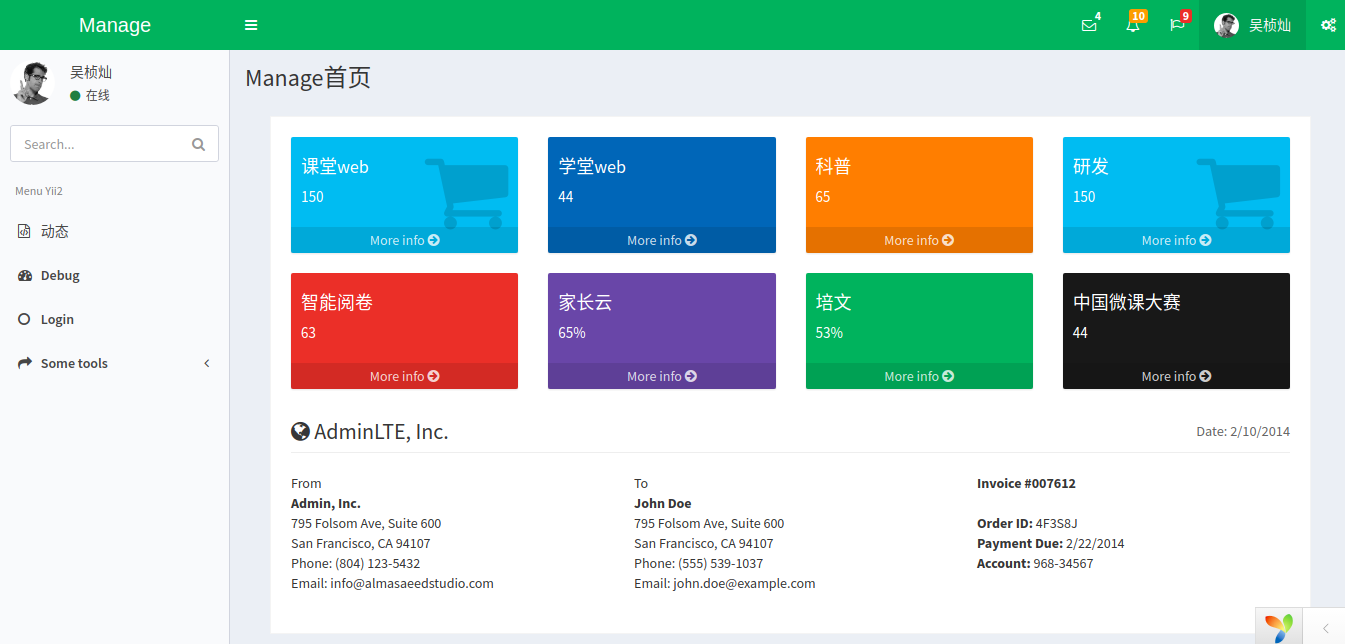
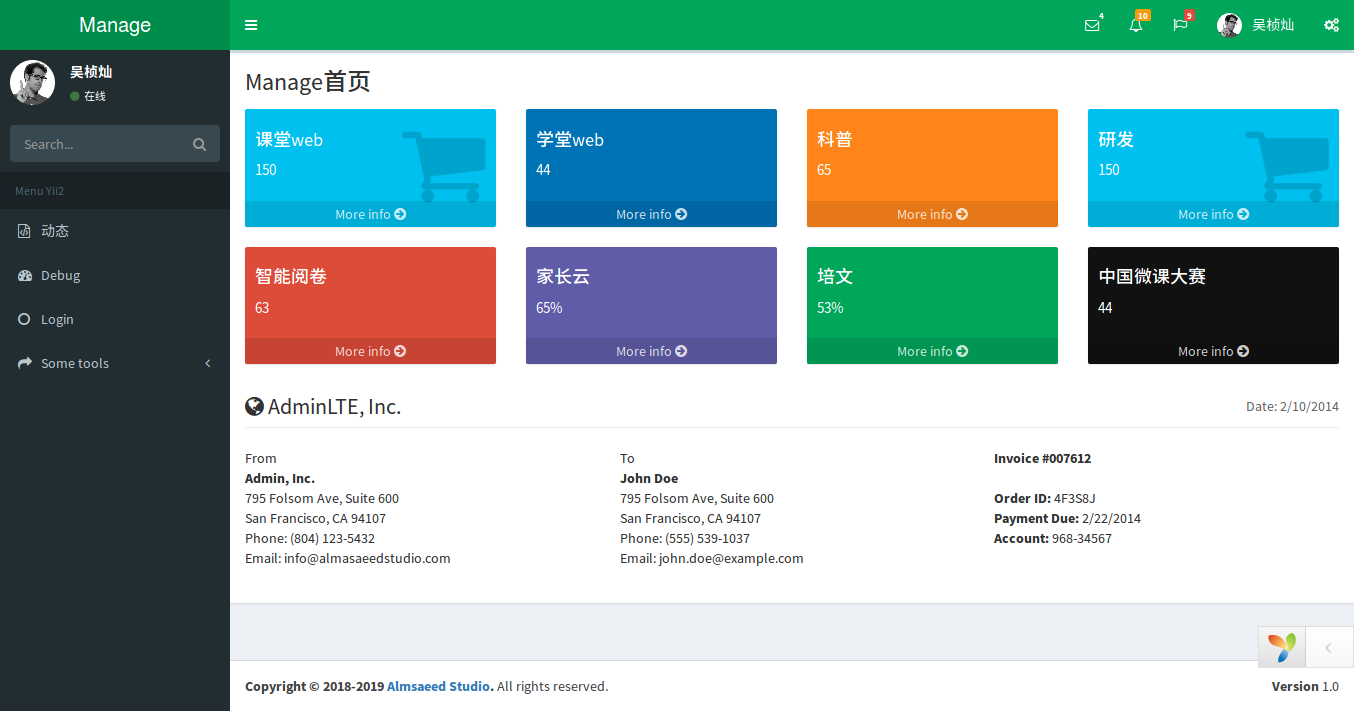
效果图

diff --git a/frontend/views/layouts/main-member.php b/frontend/views/layouts/main-member.php
@@ -39,6 +39,85 @@ if (Yii::$app->controller->action->id === 'login') {
     </head>
     <body class="hold-transition <?= \dmstr\helpers\AdminLteHelper::skinClass() ?>  sidebar-mini">
     <?php $this->beginBody() ?>
+
+    <div class="modal fade bs-example-modal-lg" tabindex="-1" role="dialog" aria-labelledby="myLargeModalLabel">
+        <div class="modal-dialog" role="document">
+
+                <div class="modal-body">
+                    <!-- Construct the box with style you want. Here we are using box-success -->
+                    <!-- Then add the class direct-chat and choose the direct-chat-* contexual class -->
+                    <!-- The contextual class should match the box, so we are using direct-chat-success -->
+                    <div class="box box-success direct-chat direct-chat-success">
+                        <div class="box-header with-border">
+                            <h3 class="box-title">Direct Chat</h3>
+                            <div class="box-tools pull-right">
+                                <span data-toggle="tooltip" title="3 New Messages" class="badge bg-red">3</span>
+                                <button class="btn btn-box-tool" data-widget="collapse"><i class="fa fa-minus"></i></button>
+                                <!-- In box-tools add this button if you intend to use the contacts pane -->
+                                <button class="btn btn-box-tool" data-toggle="tooltip" title="Contacts" data-widget="chat-pane-toggle"><i class="fa fa-comments"></i></button>
+                                <button class="btn btn-box-tool" data-widget="remove"><i class="fa fa-times"></i></button>
+                            </div>
+                        </div><!-- /.box-header -->
+                        <div class="box-body">
+                            <!-- Conversations are loaded here -->
+                            <div class="direct-chat-messages">
+                                <!-- Message. Default to the left -->
+                                <div class="direct-chat-msg">
+                                    <div class="direct-chat-info clearfix">
+                                        <span class="direct-chat-name pull-left">张晓龙</span>
+                                        <span class="direct-chat-timestamp pull-right">2018-01-11 11:59</span>
+                                    </div><!-- /.direct-chat-info -->
+                                    <img class="direct-chat-img" src="<?=$directoryAsset?>/img/user1-128x128.jpg" alt="message user image"><!-- /.direct-chat-img -->
+                                    <div class="direct-chat-text">
+                                        请问这是一个什么样的框架呢？
+                                    </div><!-- /.direct-chat-text -->
+                                </div><!-- /.direct-chat-msg -->
+
+                                <!-- Message to the right -->
+                                <div class="direct-chat-msg right">
+                                    <div class="direct-chat-info clearfix">
+                                        <span class="direct-chat-name pull-right">李白</span>
+                                        <span class="direct-chat-timestamp pull-left">2018-01-11 12:00</span>
+                                    </div><!-- /.direct-chat-info -->
+                                    <img class="direct-chat-img" src="<?=$directoryAsset?>/img/user3-128x128.jpg" alt="message user image"><!-- /.direct-chat-img -->
+                                    <div class="direct-chat-text">
+                                        只要你用它，你就会知道的
+                                    </div><!-- /.direct-chat-text -->
+                                </div><!-- /.direct-chat-msg -->
+                            </div><!--/.direct-chat-messages-->
+
+                            <!-- Contacts are loaded here -->
+                            <div class="direct-chat-contacts">
+                                <ul class="contacts-list">
+                                    <li>
+                                        <a href="#">
+                                            <img class="contacts-list-img" src="<?=$directoryAsset?>/img/user1-128x128.jpg" alt="Contact Avatar">
+                                            <div class="contacts-list-info">
+              <span class="contacts-list-name">
+                Count Dracula
+                <small class="contacts-list-date pull-right">2/28/2015</small>
+              </span>
+                                                <span class="contacts-list-msg">How have you been? I was...</span>
+                                            </div><!-- /.contacts-list-info -->
+                                        </a>
+                                    </li><!-- End Contact Item -->
+                                </ul><!-- /.contatcts-list -->
+                            </div><!-- /.direct-chat-pane -->
+                        </div><!-- /.box-body -->
+                        <div class="box-footer">
+                            <div class="input-group">
+                                <input type="text" name="message" placeholder="Type Message ..." class="form-control">
+                                <span class="input-group-btn">
+        <button type="button" class="btn btn-success btn-flat">Send</button>
+      </span>
+                            </div>
+                        </div><!-- /.box-footer-->
+                    </div><!--/.direct-chat -->
+                </div>
+        </div>
+    </div>
+
+
     <div class="wrapper">
 
         <?= $this->render(

diff --git a/frontend/views/layouts/content.php b/frontend/views/layouts/content.php
@@ -3,7 +3,15 @@ use yii\widgets\Breadcrumbs;
 use dmstr\widgets\Alert;
 
 ?>
+<style>
+    .chat-portrait {
+        width: 35px;
+        height: 35px;
+    }
+</style>
+
 <div class="content-wrapper">
+    <div class="box">
     <section class="content-header">
         <?php if (isset($this->blocks['content-header'])) { ?>
             <h1><?= $this->blocks['content-header'] ?></h1>
@@ -33,13 +41,14 @@ use dmstr\widgets\Alert;
         <?= Alert::widget() ?>
         <?= $content ?>
     </section>
+    </div>
 </div>
 
 <footer class="main-footer">
     <div class="pull-right hidden-xs">
-        <b>Version</b> 2.0
+        <b>Version</b> 1.0
     </div>
-    <strong>Copyright &copy; 2014-2015 <a href="http://almsaeedstudio.com">Almsaeed Studio</a>.</strong> All rights
+    <strong>Copyright &copy; 2018-2019 <a href="http://almsaeedstudio.com">Almsaeed Studio</a>.</strong> All rights
     reserved.
 </footer>
 
@@ -47,56 +56,52 @@ use dmstr\widgets\Alert;
 <aside class="control-sidebar control-sidebar-dark">
     <!-- Create the tabs -->
     <ul class="nav nav-tabs nav-justified control-sidebar-tabs">
-        <li><a href="#control-sidebar-home-tab" data-toggle="tab"><i class="fa fa-home"></i></a></li>
+        <li class="active"><a href="#control-sidebar-home-tab" data-toggle="tab"><i class="fa fa-home"></i></a></li>
         <li><a href="#control-sidebar-settings-tab" data-toggle="tab"><i class="fa fa-gears"></i></a></li>
     </ul>
     <!-- Tab panes -->
     <div class="tab-content">
         <!-- Home tab content -->
-        <div class="tab-pane" id="control-sidebar-home-tab">
+        <div class="tab-pane active" id="control-sidebar-home-tab">
             <h3 class="control-sidebar-heading">Recent Activity</h3>
             <ul class='control-sidebar-menu'>
                 <li>
-                    <a href='javascript::;'>
-                        <i class="menu-icon fa fa-birthday-cake bg-red"></i>
-
+                    <a href='javascript:;' data-toggle="modal" data-target=".bs-example-modal-lg">
+                        <i class="fa menu-icon"><img class="img-circle img-bordered-sm chat-portrait" src="<?= $directoryAsset ?>/img/user1-128x128.jpg" alt="User Image"></i>
                         <div class="menu-info">
-                            <h4 class="control-sidebar-subheading">Langdon's Birthday</h4>
+                            <h4 class="control-sidebar-subheading">范冰冰</h4>
 
-                            <p>Will be 23 on April 24th</p>
+                            <p>fan@qq.com</p>
                         </div>
                     </a>
                 </li>
                 <li>
-                    <a href='javascript::;'>
-                        <i class="menu-icon fa fa-user bg-yellow"></i>
-
+                    <a href='javascript:;' data-toggle="modal" data-target=".bs-example-modal-lg">
+                        <i class="fa menu-icon"><img class="img-circle img-bordered-sm chat-portrait" src="<?= $directoryAsset ?>/img/user3-128x128.jpg" alt="User Image"></i>
                         <div class="menu-info">
-                            <h4 class="control-sidebar-subheading">Frodo Updated His Profile</h4>
+                            <h4 class="control-sidebar-subheading">欧阳宛玲</h4>
 
-                            <p>New phone +1(800)555-1234</p>
+                            <p>oangng@qq.com</p>
                         </div>
                     </a>
                 </li>
                 <li>
-                    <a href='javascript::;'>
-                        <i class="menu-icon fa fa-envelope-o bg-light-blue"></i>
-
+                    <a href='javascript:;' data-toggle="modal" data-target=".bs-example-modal-lg">
+                        <i class="fa menu-icon"><img class="img-circle img-bordered-sm chat-portrait" src="<?= $directoryAsset ?>/img/user4-128x128.jpg" alt="User Image"></i>
                         <div class="menu-info">
-                            <h4 class="control-sidebar-subheading">Nora Joined Mailing List</h4>
+                            <h4 class="control-sidebar-subheading">马云</h4>
 
-                            <p>nora@example.com</p>
+                            <p>10086@qq.com</p>
                         </div>
                     </a>
                 </li>
                 <li>
-                    <a href='javascript::;'>
-                        <i class="menu-icon fa fa-file-code-o bg-green"></i>
-
+                    <a href='javascript:;' data-toggle="modal" data-target=".bs-example-modal-lg">
+                        <i class="fa menu-icon"><img class="img-circle img-bordered-sm chat-portrait" src="<?= $directoryAsset ?>/img/user6-128x128.jpg" alt="User Image"></i>
                         <div class="menu-info">
-                            <h4 class="control-sidebar-subheading">Cron Job 254 Executed</h4>
+                            <h4 class="control-sidebar-subheading">吴桢灿</h4>
 
-                            <p>Execution time 5 seconds</p>
+                            <p>125@qq.com</p>
                         </div>
                     </a>
                 </li>

diff --git a/frontend/views/default/index.php b/frontend/views/default/index.php
@@ -5,8 +5,7 @@
 $this->title = 'Manage首页';
 $directoryAsset = Yii::$app->assetManager->getPublishedUrl('@vendor/almasaeed2010/adminlte/dist');
 ?>
-
-<section class="invoice">
+<!--<section class="invoice">-->
     <div class="row">
         <div class="col-lg-3 col-xs-6">
             <!-- small box -->
@@ -190,7 +189,7 @@ $directoryAsset = Yii::$app->assetManager->getPublishedUrl('@vendor/almasaeed201
     </div>
     <!-- /.row -->
 
-</section>
+<!--</section>-->
 
 
 

diff --git a/common/config/main.php b/common/config/main.php
@@ -38,7 +38,7 @@ return [
         'assetManager' => [
             'bundles' => [
                 'dmstr\web\AdminLteAsset' => [
-                    'skin' => 'skin-green-light',
+                    'skin' => 'skin-green',
                 ],
             ],
         ],

diff --git a/frontend/views/default/dynamic.php b/frontend/views/default/dynamic.php
@@ -19,6 +19,9 @@ $directoryAsset = Yii::$app->assetManager->getPublishedUrl('@vendor/almasaeed201
     .desc {
         font-size: 13px;
     }
+    .timeline>li>.timeline-item {
+        background: #f4f4f4;
+    }
 </style>
 
 <section class="content">

diff --git a/README.md b/README.md
@@ -45,5 +45,9 @@ http://localhost/manage/frontend/web/index.php
 ### 效果图：  
 ![首页](https://github.com/wuzhc/manage/blob/master/frontend/web/images/index.png)
 ![动态页](https://github.com/wuzhc/manage/blob/master/frontend/web/images/dynamic.png)
+![聊天页](https://github.com/wuzhc/manage/blob/master/frontend/web/images/chat.png)
+![AppWeb首页](https://github.com/wuzhc/manage/blob/master/frontend/web/images/app-index.png)
+![AppWeb动态页](https://github.com/wuzhc/manage/blob/master/frontend/web/images/app-dymanic.png)
+![AppWeb聊天页](https://github.com/wuzhc/manage/blob/master/frontend/web/images/app-chat.png)
 
 
